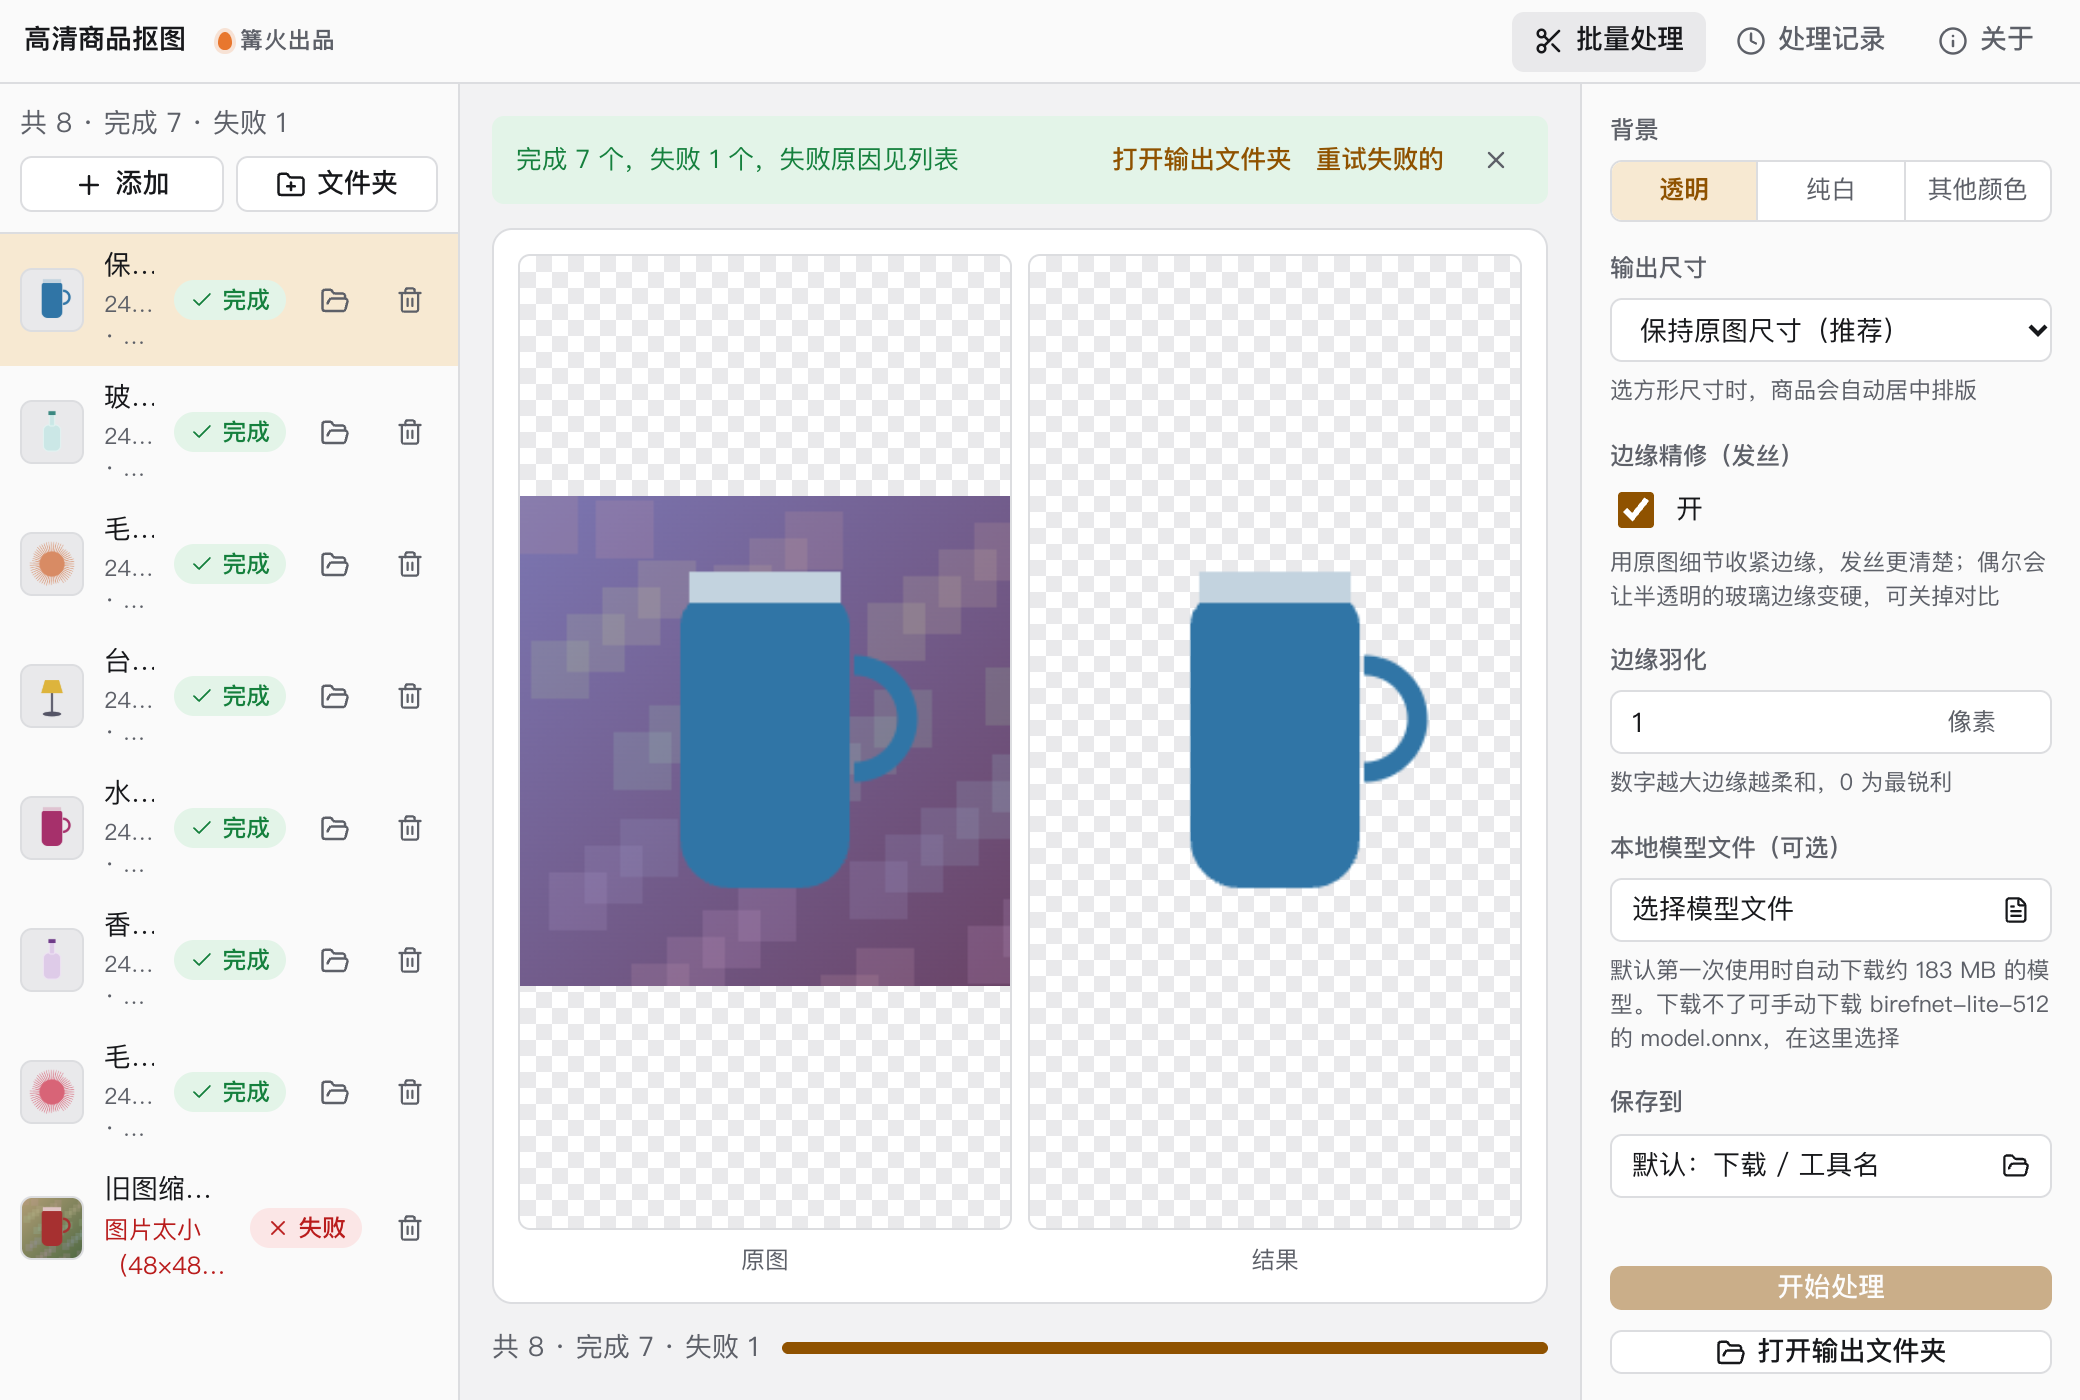
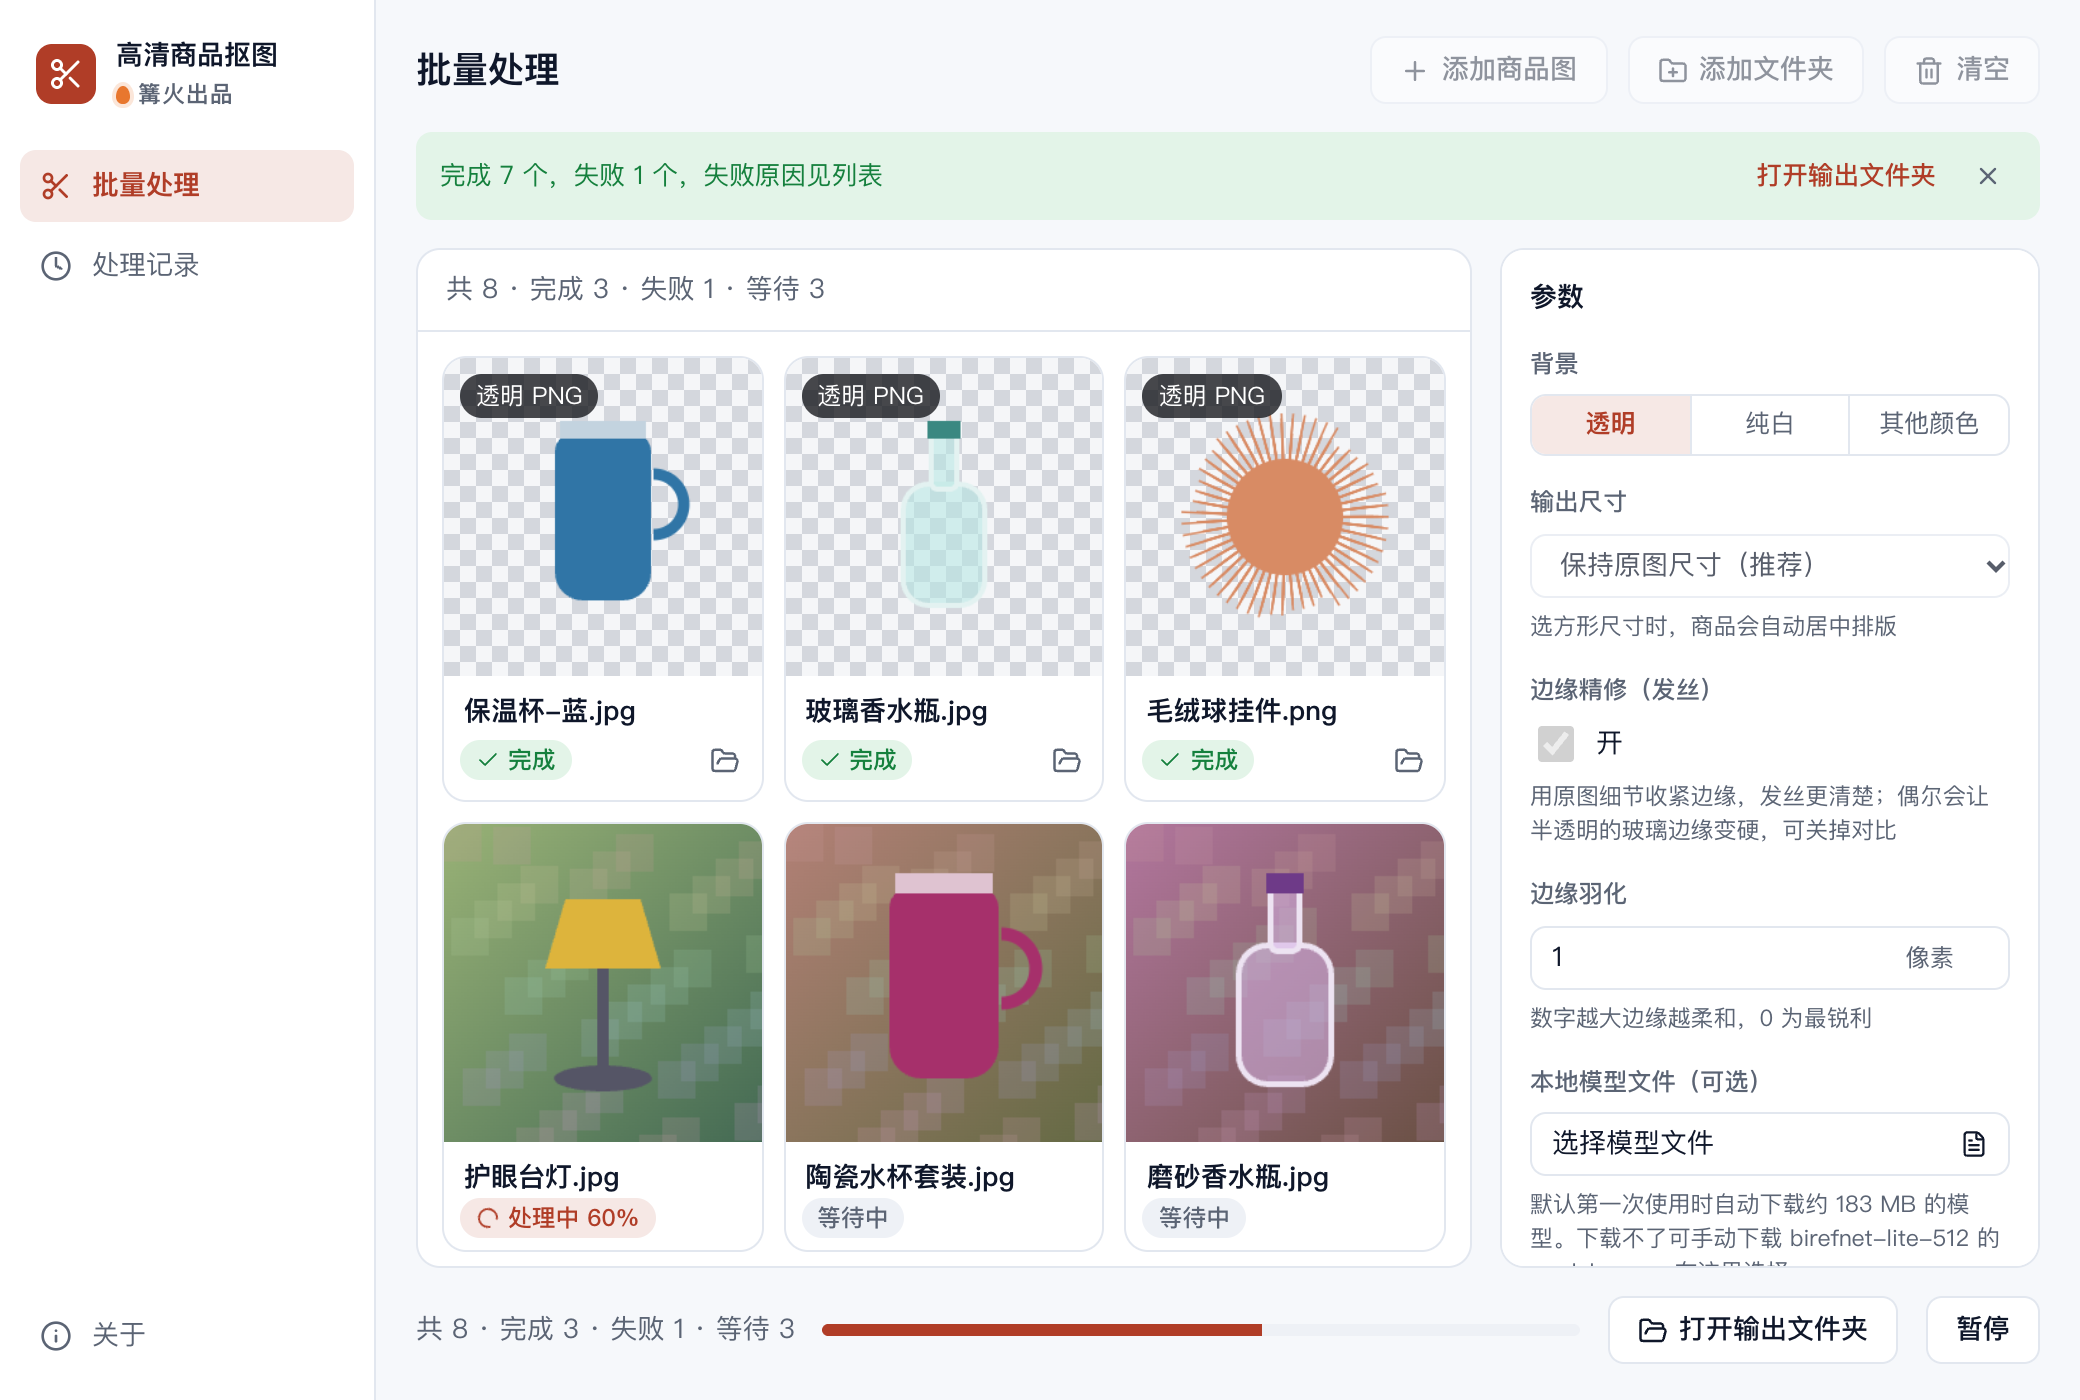
界面重做：透明图墙、点击换底色验边缘、专属主色（0.2.0）

diff --git a/src/tool/ui.tsx b/src/tool/ui.tsx
@@ -1,0 +1,63 @@
+// 界面：空状态（一面抠好的透明图墙示意）与单条结果（点一下换底色，检查边缘）
+import { useState } from 'react';
+import { Palette, ScanSearch, Sparkles, Layers } from 'lucide-react';
+import type { InputItem, ItemResult } from '../kit/types';
+import { fileSrc } from '../kit/platform';
+import './tool.css';
+
+const GROUNDS: [string, string][] = [['透明棋盘', 'checker'], ['纯白', '#FFFFFF'], ['深灰', '#23262D'], ['浅粉', '#F7D9DF']];
+
+function Sketch({ kind }: { kind: 'cup' | 'bottle' | 'fluff' | 'lamp' }) {
+  if (kind === 'cup') return (<g><rect x="30" y="22" width="34" height="62" rx="8" fill="#2F6FB4" /><rect x="32" y="14" width="30" height="10" rx="3" fill="#E4E6EA" /><path d="M64 38 q16 4 0 28" fill="none" stroke="#2F6FB4" strokeWidth="6" strokeLinecap="round" /></g>);
+  if (kind === 'bottle') return (<g><rect x="32" y="44" width="34" height="42" rx="12" fill="#8CC7D6" opacity=".7" stroke="#EAF6F9" strokeWidth="2" /><rect x="43" y="26" width="12" height="22" rx="3" fill="#8CC7D6" opacity=".7" stroke="#EAF6F9" strokeWidth="2" /><rect x="41" y="18" width="16" height="9" rx="2" fill="#7A4B2A" /></g>);
+  if (kind === 'fluff') return (<g stroke="#E58AA6" strokeWidth="1.3">{Array.from({ length: 70 }, (_, i) => { const a = i * 2.399; const r2 = 36 + (i % 6) * 3; return <line key={i} x1={50 + Math.cos(a) * 20} y1={50 + Math.sin(a) * 20} x2={50 + Math.cos(a) * r2} y2={50 + Math.sin(a) * r2} />; })}<circle cx="50" cy="50" r="24" fill="#E58AA6" stroke="none" /></g>);
+  return (<g><path d="M32 52 L68 52 L62 24 L38 24 Z" fill="#F0A93B" /><rect x="47" y="52" width="5" height="30" fill="#5B6270" /><ellipse cx="50" cy="86" rx="16" ry="5" fill="#5B6270" /></g>);
+}
+
+export function Empty({ hover }: { hover: boolean }) {
+  const kinds = ['fluff', 'cup', 'bottle', 'lamp'] as const;
+  return (
+    <div className={`hd-empty${hover ? ' hover' : ''}`}>
+      <div className="hd-wall-demo" aria-hidden="true">
+        {kinds.map((k, i) => (
+          <svg key={k} viewBox="0 0 100 100" className={i === 0 ? 'big' : ''}><Sketch kind={k} /></svg>
+        ))}
+      </div>
+      <h2>难抠的商品，一面墙抠干净</h2>
+      <p>发丝、毛绒、玻璃瓶这些普通抠图会留毛边的商品，交给高清模型。结果是一面透明图墙，点一下就能换底色，检查边缘有没有残留。</p>
+      <ul className="hd-points">
+        <li><ScanSearch size={14} />发丝、半透明件</li>
+        <li><Sparkles size={14} />边缘精修加羽化</li>
+        <li><Layers size={14} />输出透明 PNG</li>
+      </ul>
+      <p className="hd-hint">把商品图或整个文件夹拖进窗口，也可以点右上角的添加按钮。</p>
+    </div>
+  );
+}
+
+function tagOf(summary?: string) {
+  if (!summary) return '成品';
+  if (summary.includes('透明')) return '透明 PNG';
+  if (summary.includes('白底')) return '白底';
+  return '纯色底';
+}
+
+export function ResultBody({ item, result }: { item: InputItem; result: ItemResult }) {
+  const [g, setG] = useState(0);
+  const [name, ground] = GROUNDS[g];
+  const src = result.preview ? fileSrc(result.preview) : '';
+  return (
+    <button
+      type="button"
+      className={`hd-cut${ground === 'checker' ? ' checker' : ''}`}
+      style={ground === 'checker' ? undefined : { background: ground }}
+      onClick={(e) => { e.stopPropagation(); setG((g + 1) % GROUNDS.length); }}
+      aria-label={`${item.name}，当前底色：${name}，点击切换底色`}
+      title="点击切换底色，检查边缘"
+    >
+      {src && <img src={src} alt="" draggable={false} />}
+      <em className="hd-tag">{tagOf(result.summary)}</em>
+      <em className="hd-ground"><Palette size={12} />{name}</em>
+    </button>
+  );
+}

diff --git a/src/tool/tool.css b/src/tool/tool.css
@@ -1,0 +1,35 @@
+/* 高清商品抠图：透明图墙。把结果列表改成密排的方块墙，每块可切换底色 */
+.hd-empty { display: grid; justify-items: center; gap: 10px; text-align: center; padding: 28px 20px; }
+.hd-empty h2 { margin: 6px 0 0; font-size: 1.5em; }
+.hd-empty p { margin: 0; color: var(--muted); max-width: 36em; line-height: 1.6; }
+.hd-wall-demo { display: grid; grid-template-columns: repeat(4, 96px); grid-template-rows: 96px; gap: 8px; margin-bottom: 8px; transform: perspective(700px) rotateX(8deg); }
+.hd-wall-demo svg { width: 96px; height: 96px; border-radius: var(--radius); border: 1px solid var(--line); background: repeating-conic-gradient(#d4d7dd 0 25%, #f5f6f8 0 50%) 0 0 / 14px 14px; transition: transform .2s var(--ease); }
+.hd-wall-demo svg.big { box-shadow: 0 0 0 3px var(--primary-soft); border-color: var(--primary); }
+.hd-empty.hover .hd-wall-demo svg { transform: translateY(-4px); }
+.hd-points { list-style: none; margin: 4px 0 0; padding: 0; display: flex; flex-wrap: wrap; justify-content: center; gap: 8px; }
+.hd-points li { display: inline-flex; align-items: center; gap: 6px; min-height: 32px; padding: 0 12px; border-radius: var(--radius-pill); background: var(--primary-soft); font-size: 13px; }
+.hd-points svg { color: var(--primary); }
+.hd-hint { font-size: 13px; }
+
+/* 结果墙 */
+.k-rows { display: grid; grid-template-columns: repeat(auto-fill, minmax(136px, 1fr)); gap: 10px; padding: 12px; align-content: start; }
+.k-row { display: grid; grid-template-columns: 1fr auto auto; align-items: center; gap: 0 4px; padding: 0 0 6px; border: 1px solid var(--line); border-radius: var(--radius-lg); overflow: hidden; background: var(--surface); }
+.k-row.sel { border-color: var(--primary); }
+.k-row-name { display: contents; }
+.k-row-name > .k-ellipsis { grid-column: 1 / -1; grid-row: 2; padding: 8px 10px 0; font-weight: 600; }
+.k-row-name > small { display: none; }
+.k-row-body { grid-column: 1 / -1; grid-row: 1; margin: 0; }
+.k-row > .k-thumb { grid-column: 1 / -1; grid-row: 1; width: 100%; height: auto; aspect-ratio: 1; border: 0; border-radius: 0; }
+.k-row:has(.hd-cut) > .k-thumb { display: none; }
+.k-row > .k-st { grid-row: 3; grid-column: 1; justify-self: start; margin-left: 8px; max-width: 100%; }
+.k-row > .k-row-actions { grid-row: 3; grid-column: 2; }
+.k-row > .k-icon-btn { grid-row: 3; grid-column: 3; margin-right: 4px; }
+
+.hd-cut { position: relative; display: block; width: 100%; aspect-ratio: 1; padding: 0; border: 0; cursor: pointer; overflow: hidden; transition: background-color .2s var(--ease); }
+.hd-cut.checker { background: repeating-conic-gradient(#d4d7dd 0 25%, #f5f6f8 0 50%) 0 0 / 16px 16px; }
+.hd-cut img { position: absolute; inset: 6%; width: 88%; height: 88%; object-fit: contain; }
+.hd-cut:focus-visible { outline: 2px solid var(--primary); outline-offset: -2px; }
+.hd-tag, .hd-ground { position: absolute; font-style: normal; font-size: 12px; line-height: 1; padding: 5px 8px; border-radius: var(--radius-pill); background: rgb(20 22 26 / .78); color: #fff; display: inline-flex; align-items: center; gap: 4px; }
+.hd-tag { top: 8px; left: 8px; }
+.hd-ground { bottom: 8px; right: 8px; opacity: 0; transition: opacity .15s ease-out; }
+.hd-cut:hover .hd-ground, .hd-cut:focus-visible .hd-ground { opacity: 1; }

diff --git a/src/tool/preview.ts b/src/tool/preview.ts
@@ -3,8 +3,8 @@ import type { Row } from '../kit/runner';
 
 type Kind = 'cup' | 'bottle' | 'fluff' | 'lamp';
 const KINDS: [string, Kind, number][] = [
-  ['保温杯-示例.jpg', 'cup', 205], ['玻璃瓶-示例.jpg', 'bottle', 175], ['毛绒球-示例.png', 'fluff', 20], ['台灯-示例.jpg', 'lamp', 45],
-  ['水杯套装-示例.jpg', 'cup', 330], ['香水瓶-示例.jpg', 'bottle', 280], ['毛线团-示例.png', 'fluff', 350], ['旧图缩略-示例.jpg', 'cup', 0],
+  ['保温杯-蓝.jpg', 'cup', 205], ['玻璃香水瓶.jpg', 'bottle', 175], ['毛绒球挂件.png', 'fluff', 20], ['护眼台灯.jpg', 'lamp', 45],
+  ['陶瓷水杯套装.jpg', 'cup', 330], ['磨砂香水瓶.jpg', 'bottle', 280], ['羊毛线团.png', 'fluff', 350], ['旧图-缩略.jpg', 'cup', 0],
 ];
 
 function draw(kind: Kind, hue: number, bg: 'busy' | 'check') {

diff --git a/src/tool/index.ts b/src/tool/index.ts
@@ -3,6 +3,7 @@ import { Scissors } from 'lucide-react';
 import type { BatchTool } from '../kit/types';
 import { normalizeColor, outName } from './core';
 import { cutout } from './remove';
+import { Empty, ResultBody } from './ui';
 
 const MIME: Record<string, [string, string]> = { jpg: ['image/jpeg', 'jpg'], png: ['image/png', 'png'], webp: ['image/webp', 'webp'] };
 
@@ -15,6 +16,8 @@ const tool: BatchTool = {
   type: 'media',
   mode: 'batch',
   resultView: 'list',
+  Empty,
+  ResultBody,
   concurrency: 1,
   accept: { label: '商品图', extensions: ['jpg', 'jpeg', 'png', 'webp', 'bmp'] },
   params: [

diff --git a/CHANGELOG.md b/CHANGELOG.md
@@ -1,5 +1,12 @@
 # 更新记录
 
+## 0.2.0
+
+- 界面重做：处理结果排成一面透明图墙，点任意一块可在透明棋盘、纯白、深灰、浅粉之间切换底色，方便检查边缘。
+- 新的空状态：用一排透明抠图示意讲清工具擅长发丝、毛绒、玻璃件。
+- 换成专属主色（赭红），保持侧栏加参数面板的布局。
+- 示例数据改成真实感的中文商品名。
+
 ## 0.1.0
 
 - 首个版本。
